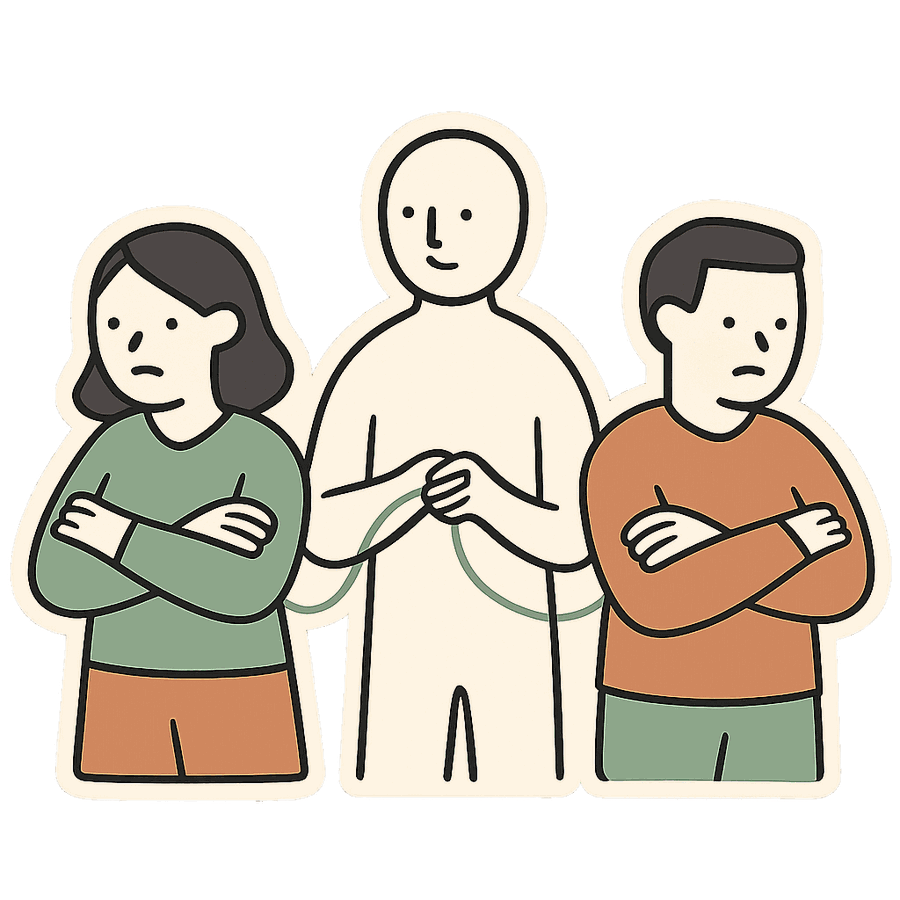
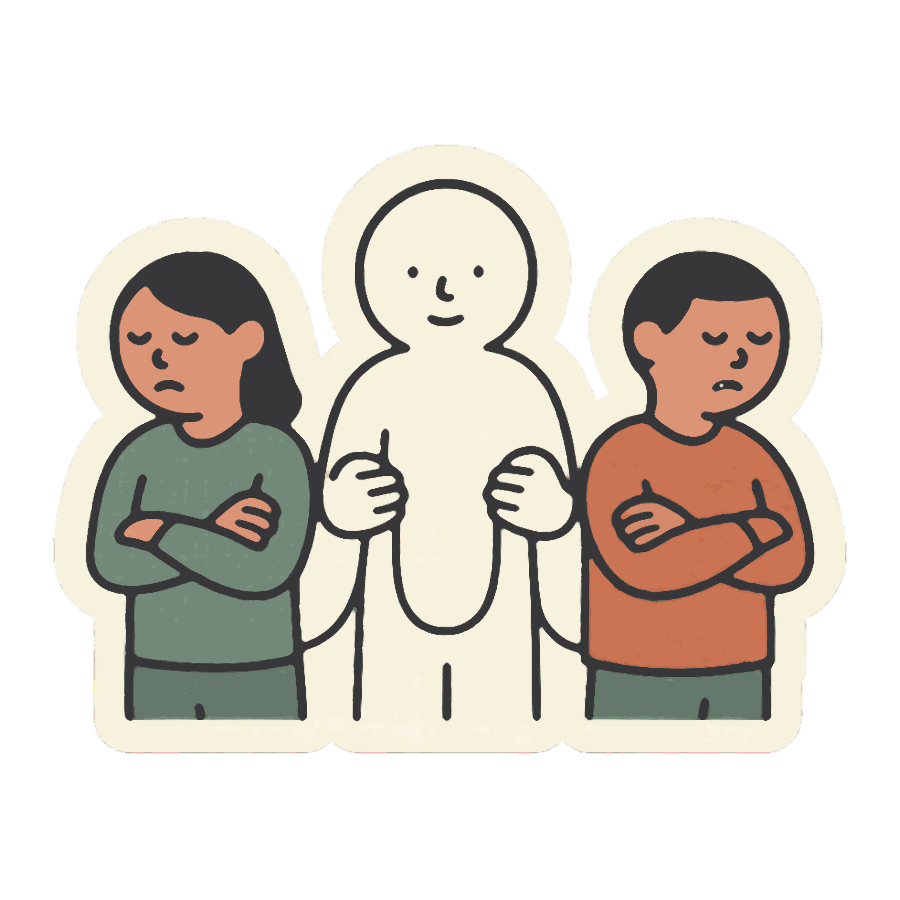
Вся серия иллюстраций перерисована одной партией в едином стиле (14 стикеров), фактура убрана через непрозрачную альфу, файлы в три раза легче; OG-картинка сайта в фирменном стиле вместо фото; генератор учитывает альфа-фактуру

diff --git a/tools/gen-illu.py b/tools/gen-illu.py
@@ -9,7 +9,7 @@
 Если на macOS ругается на SSL: export SSL_CERT_FILE=$(python3 -m certifi)
 """
 import base64, io, json, os, sys, urllib.request
-from PIL import Image, ImageChops
+from PIL import Image, ImageChops, ImageFilter
 
 STYLE = ("Die-cut sticker style flat vector illustration, isolated on a fully transparent background: "
          "the PNG alpha channel must be empty everywhere except the sticker itself. "
@@ -18,11 +18,13 @@ STYLE = ("Die-cut sticker style flat vector illustration, isolated on a fully tr
          "Modern editorial tech-illustration style: thin dark ink outlines, simple rounded characters with minimal faces "
          "(dot eyes, tiny line mouth), flat color fills, no gradients, absolutely no text. "
          "Strict palette: warm cream #FAF8F5, sage green #7A9E7E, light sage #A8C4AB, muted clay terracotta #C4916E, "
-         "warm dark charcoal #1A1918 for outlines and hair. ")
+         "warm dark charcoal #1A1918 for outlines and hair. "
+         "Crisp uniform ink outlines of equal thickness everywhere. Same character design across the whole series: "
+         "simple rounded people with dot eyes, tiny line mouths, small noses, sage or terracotta clothes. ")
 
 
-def generate(scene, key):
-    body = json.dumps({"model": "gpt-image-1", "prompt": STYLE + scene, "size": "1024x1024", "quality": "medium",
+def generate(scene, key, size="1024x1024", quality="high"):
+    body = json.dumps({"model": "gpt-image-1", "prompt": STYLE + scene, "size": size, "quality": quality,
                        "background": "transparent", "output_format": "png", "n": 1}).encode()
     req = urllib.request.Request("https://api.openai.com/v1/images/generations", data=body,
                                  headers={"Authorization": f"Bearer {key}", "Content-Type": "application/json"})
@@ -31,18 +33,25 @@ def generate(scene, key):
     return base64.b64decode(data["data"][0]["b64_json"])
 
 
-def clean(png_bytes):
+def clean(png_bytes, ratio=1.0, width=900):
     im = Image.open(io.BytesIO(png_bytes)).convert("RGBA")
+    # модель рисует "фактуру" полупрозрачными точками в альфа-канале: делаем внутренность стикера
+    # непрозрачной (мягкий край сохраняем) и сглаживаем заливки, одинаково для всей серии
+    a = im.getchannel("A")
+    solid = a.point(lambda v: 255 if v >= 110 else 0).filter(ImageFilter.MaxFilter(3)).filter(ImageFilter.MinFilter(3)).filter(ImageFilter.GaussianBlur(0.7))
+    rgb = im.convert("RGB").filter(ImageFilter.MedianFilter(7))
+    im = Image.merge("RGBA", (*rgb.split(), solid))
     a = im.getchannel("A"); lum = im.convert("L")
     partial = a.point(lambda v: 255 if 0 < v < 255 else 0)
     dark = lum.point(lambda v: 255 if v < 150 else 0)
     a2 = ImageChops.subtract(a, ImageChops.multiply(partial, dark)).point(lambda v: 0 if v < 40 else v)
     im.putalpha(a2)
     im = im.crop(im.getbbox())
-    w, h = im.size; side = int(max(w, h) / 0.88)
-    canvas = Image.new("RGBA", (side, side), (0, 0, 0, 0))
-    canvas.paste(im, ((side - w) // 2, (side - h) // 2))
-    canvas = canvas.resize((900, 900), Image.LANCZOS)
+    w, h = im.size
+    cw = int(max(w, h * ratio) / 0.88); ch = int(cw / ratio)
+    canvas = Image.new("RGBA", (cw, ch), (0, 0, 0, 0))
+    canvas.paste(im, ((cw - w) // 2, (ch - h) // 2))
+    canvas = canvas.resize((width, int(width / ratio)), Image.LANCZOS)
     return canvas.quantize(colors=256, method=Image.Quantize.FASTOCTREE, dither=Image.Dither.NONE)
 
 
@@ -51,6 +60,11 @@ if __name__ == "__main__":
         sys.exit(__doc__)
     key = os.environ.get("OPENAI_API_KEY") or sys.exit("Нужна переменная OPENAI_API_KEY")
     name, scene = sys.argv[1], sys.argv[2]
+    landscape = "--landscape" in sys.argv
     out = os.path.join(os.path.dirname(os.path.abspath(__file__)), "..", "img", name + ".png")
-    clean(generate(scene, key)).save(out, optimize=True)
+    if landscape:
+        img = clean(generate(scene, key, size="1536x1024"), ratio=1400 / 959, width=1400)
+    else:
+        img = clean(generate(scene, key))
+    img.save(out, optimize=True)
     print("ok", os.path.normpath(out), os.path.getsize(out) // 1024, "KB")
